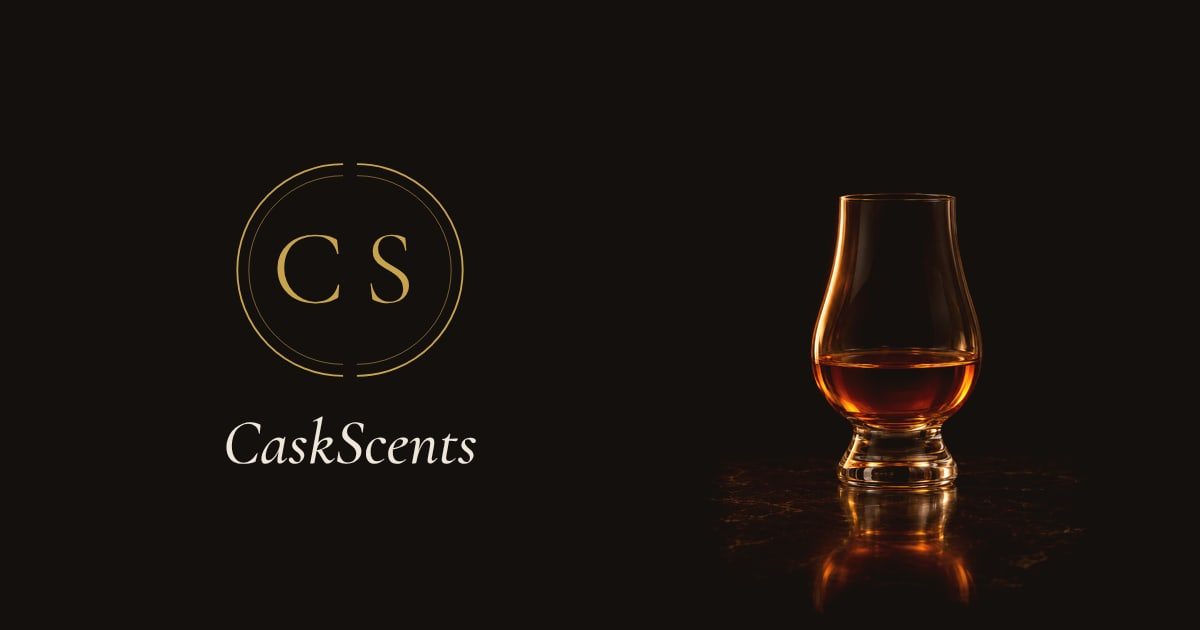
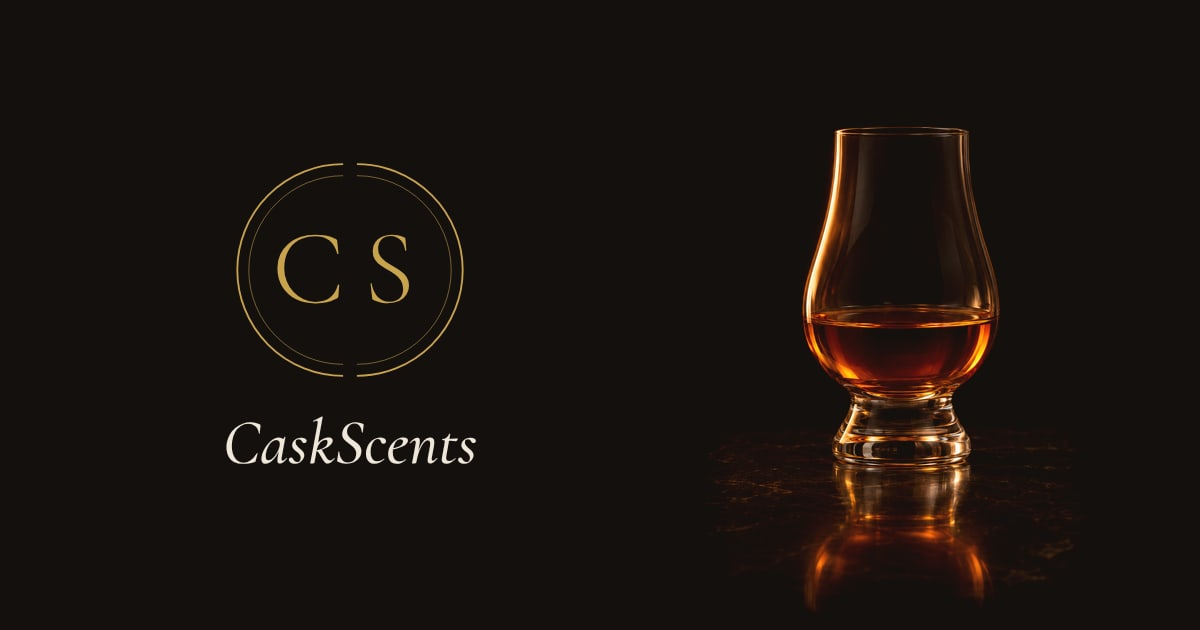
Frame bottle photos automatically, clear the About text, document M7
The photo command now finds the bottle and cuts the 2:3 window around
it. The temporary About text is removed, so the page and its link are
gone again until real text is written. The README covers photos, the
About page, feeds, sharing, the email signup and visit counting.

Claude-Session: https://claude.ai/code/session_01RU1FNbHRACYs9hacePdPFw

Changed region(s): [[0.6475, 0.181, 0.8325, 0.9651]]

diff --git a/README.md b/README.md
@@ -4,7 +4,7 @@ Honest reviews of what you pour and what you wear. Whiskey and fragrance reviews
 
 The site is built with [Astro](https://astro.build/) and published as plain static pages. The design and build plan live in `docs/superpowers/`.
 
-**Status:** under construction. The gateway, both world homepages, the shelf, review pages, rundown pages and browse pages are built. Still to come: the About page, feeds, sharing cards, analytics and the photo command (see the plan).
+**Status:** built and running on the preview address, with sample entries standing in for real reviews. Left to do before launch: a final quality pass, your About text and your first real reviews.
 
 ## Run it on your computer
 
@@ -32,6 +32,21 @@ This creates a file in `src/content/whiskeys/` or `src/content/fragrances/` with
 - **Fixed word lists.** Regions, types, flavors, accords, notes and tags must come from the lists in `src/data/`. If you misspell one, the build stops and tells you the file, the field and the closest valid spelling. To use a new word, add a line to the list.
 - **Drafts.** A new file starts with `draft: true`. Drafts show while you run `npm run dev` and are never published. Delete that line when the review is ready.
 
+## Add a bottle photo
+
+```bash
+npm run photo lagavulin-16 ~/Pictures/lagavulin.jpg
+```
+
+Use the review's file name without `.md`, then the path to your photo. The command:
+
+- cuts the photo to the site's 2:3 shape, with the bottle filling most of it
+- darkens the background to the page color, so the bottle blends in with no box around it
+- writes a large copy, a small copy for lists and a share card, into `public/bottles/`
+- sets the `image:` line in the review for you
+
+**Taking the photo.** Stand the bottle in front of something dark (a black card or cloth works) and light it from one side. If the background is too bright to blend, the command tells you. A review without a photo shows the gold line drawing for its world.
+
 ## Add a rundown
 
 ```bash
@@ -41,6 +56,27 @@ npm run new rundown "The Islay Peat Showdown"
 List two to four review file names under `items`, and two to four `picks` (the first one gets the gold rule). The score table and its notes are pulled from the reviews themselves. To word a note differently in one rundown, use `noteOverrides`.
 
 The build checks that every bottle exists, belongs to the right world and is published, and it warns you when a "best overall" pick is not the highest-scoring bottle.
+
+Winners and scores from a rundown only ever appear on the rundown's own page. Lists, the gateway, feeds and share previews say which questions it answers, not who won. So keep the winner out of the rundown's `summary` line too.
+
+## The About page
+
+Write your text in `src/content/pages/about.md`, under the settings block at the top. Plain paragraphs work; `## A heading` makes a heading. While that file has no text, the site has no About page and no link to it. As soon as it has text, the page appears at `/about/` and the footer links to it.
+
+The scoring page is `src/pages/about/scoring.astro`. Edit the wording there.
+
+## Feeds, sharing and search
+
+- **Feeds.** Each world has one: `/whiskey/rss.xml` and `/fragrance/rss.xml`.
+- **Sharing.** Every page has a title, a description and a share picture. A review with a photo uses its own card; everything else uses the card for its world (`public/og/`).
+- **Search engines.** Reviews carry `Review` structured data. A sitemap is built automatically.
+
+## Email signup and visit counting
+
+Both are off until you give them a name or a token. In `.github/workflows/deploy.yml`, remove the `#` in front of the line and fill it in:
+
+- `PUBLIC_BUTTONDOWN_USERNAME`: your [Buttondown](https://buttondown.com/) newsletter name. The signup form then appears on the gateway. In Buttondown, add the two feeds above so new posts are emailed automatically.
+- `PUBLIC_CF_ANALYTICS_TOKEN`: your [Cloudflare Web Analytics](https://www.cloudflare.com/web-analytics/) token. It is free and sets no cookies. Visits are not counted on the preview build.
 
 ## The sample entries
 

diff --git a/docs/superpowers/plans/2026-11-20-caskscents-implementation.md b/docs/superpowers/plans/2026-11-20-caskscents-implementation.md
@@ -92,7 +92,7 @@ Done when: the gateway matches the approved board, works with the image blocked,
 
 ## Build notes (changes made while building)
 
-Status on 2026-11-20: M0 to M6 are built and live on the preview address. M7 and M8 remain.
+Status on 2026-11-20: M0 to M7 are built and live on the preview address. M8 remains.
 
 - **Tests** use Node's built-in test runner. The build workspace cannot install packages, so every push is built and checked by GitHub Actions, and pages are reviewed from the published `gh-pages` branch.
 - **Deploy** publishes `dist` to the `gh-pages` branch (Pages set to "Deploy from a branch"). The repository is public.
@@ -105,4 +105,10 @@ Status on 2026-11-20: M0 to M6 are built and live on the preview address. M7 and
 - **Task 23, hero image.** The owner chose to use the wide photograph already approved, with the two portrait images as the phone crops. Nothing was regenerated.
 - **Task 24.** Wide screens lock the hero to the photograph's shape so the captions stay beside the glass and bottle at any width. Phones show the seal, the tagline and the two portrait images side by side, and never download the wide photograph. Keyboard focus rings the caption.
 - **Task 25.** The email signup only appears once `PUBLIC_BUTTONDOWN_USERNAME` is set. A first version of the scoring page (`/about/scoring/`) was added early because the gateway links to it; its wording still needs the owner's approval in M7.
-
+- **Scores and winners (owner's rule, 2026-11-20).** The gateway shows no scores at all. A rundown's winners and scores appear only on the rundown page; lists, feeds, share previews and structured data name the questions it answers, never who won. Review scores do show on the world pages.
+- **Task 26, About.** Left blank at the owner's request. The text lives in `src/content/pages/about.md`; the page and its footer link appear only once that file has text.
+- **Task 27, share cards.** Cards are not drawn at build time (that needs a text-drawing tool the build does not have). Instead there are three fixed cards made from the gateway photograph (`public/og/`), and `npm run photo` writes a card for each bottle with the photo beside the name mark. Cards carry no score.
+- **Task 27, feeds.** Written by hand in `src/lib/feed.ts` with no extra package. Items carry the title, link, date and one-line summary.
+- **Task 29, photo command.** Beyond the plan, it also finds the bottle and frames it, fades the photo's side and bottom edges, writes a small copy for lists and sets the review's `image:` line.
+- **Not done in M7.** A Search Console verification file (needs the owner's code from Google) and a `robots.txt` (only useful once the site is on its own domain).
+- **Samples with photos.** Two samples (`sample-harbour-smoke-16`, `sample-velvet-cherry`) use the owner's generated glass and bottle pictures, to show how real photos sit on the pages.

diff --git a/src/content/pages/about.md b/src/content/pages/about.md
@@ -4,9 +4,3 @@ description: Who writes CaskScents, and how to get in touch.
 ---
 
 <!-- Write your About text below this line. Until there is text here, the site has no About page and no link to it. -->
-
-Sample text, here only to check that the About page builds. It will be removed in the next change.
-
-## A second heading
-
-A second paragraph with [a link](https://example.com) to check the styles.
